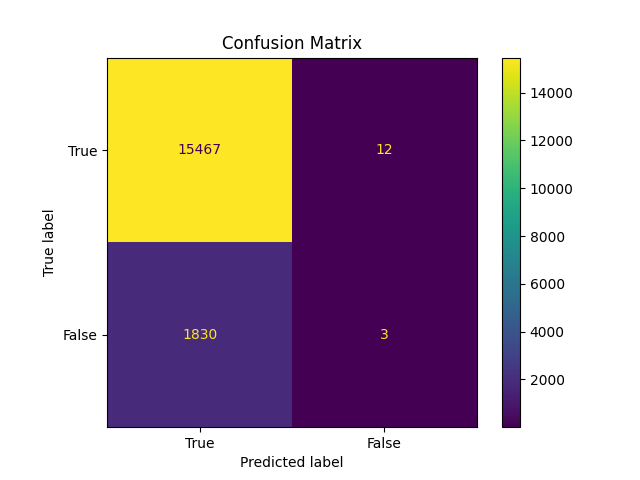
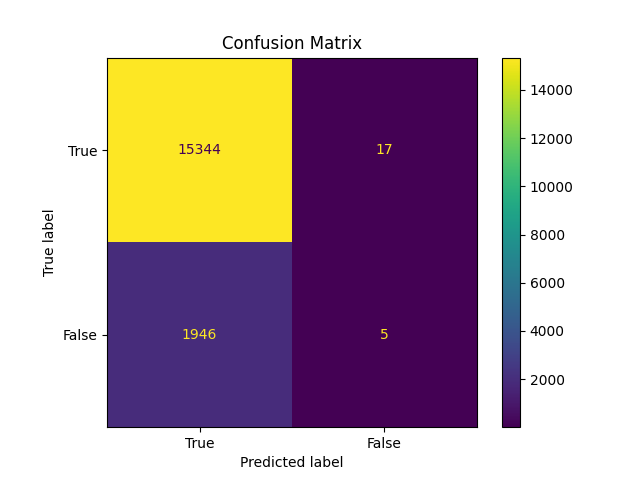
mmulticlass classification added

diff --git a/Enhanced-ANN-GSGD/tester.py b/Enhanced-ANN-GSGD/tester.py
@@ -1,0 +1,158 @@
+from numpy import vstack
+from numpy import argmax
+from pandas import read_csv
+from sklearn.preprocessing import LabelEncoder
+from sklearn.metrics import accuracy_score
+from torch import Tensor
+import torch as torch
+from torch.utils.data import Dataset
+from torch.utils.data import DataLoader
+from torch.utils.data import random_split
+from torch.nn import Linear
+from torch.nn import ReLU
+from torch.nn import Softmax
+from torch.nn import Module
+from torch.optim import SGD
+from torch.nn import CrossEntropyLoss
+from torch.nn.init import kaiming_uniform_
+from torch.nn.init import xavier_uniform_
+ 
+# dataset definition
+class CSVDataset(Dataset):
+    # load the dataset
+    def __init__(self, path):
+        # load the csv file as a dataframe
+        df = read_csv(path, header=None)
+        # store the inputs and outputs
+        self.X = df.values[:, :-1]
+        self.y = df.values[:, -1]
+        # ensure input data is floats
+        self.X = self.X.astype('float32')
+        # label encode target and ensure the values are floats
+        self.y = LabelEncoder().fit_transform(self.y)
+ 
+    # number of rows in the dataset
+    def __len__(self):
+        return len(self.X)
+ 
+    # get a row at an index
+    def __getitem__(self, idx):
+        return [self.X[idx], self.y[idx]]
+ 
+    # get indexes for train and test rows
+    def get_splits(self, n_test=0.33):
+        # determine sizes
+        test_size = round(n_test * len(self.X))
+        train_size = len(self.X) - test_size
+        # calculate the split
+        return random_split(self, [train_size, test_size])
+ 
+# model definition
+class MLP(Module):
+    # define model elements
+    def __init__(self, n_inputs):
+        super(MLP, self).__init__()
+        # input to first hidden layer
+        self.hidden1 = Linear(n_inputs, 10)
+        kaiming_uniform_(self.hidden1.weight, nonlinearity='relu')
+        self.act1 = ReLU()
+        # second hidden layer
+        self.hidden2 = Linear(10, 8)
+        kaiming_uniform_(self.hidden2.weight, nonlinearity='relu')
+        self.act2 = ReLU()
+        # third hidden layer and output
+        self.hidden3 = Linear(8, 3)
+        xavier_uniform_(self.hidden3.weight)
+        self.act3 = Softmax(dim=1)
+ 
+    # forward propagate input
+    def forward(self, X):
+        # input to first hidden layer
+        X = self.hidden1(X)
+        X = self.act1(X)
+        # second hidden layer
+        X = self.hidden2(X)
+        X = self.act2(X)
+        # output layer
+        X = self.hidden3(X)
+        X = self.act3(X)
+        return X
+ 
+# prepare the dataset
+def prepare_data(path):
+    # load the dataset
+    dataset = CSVDataset(path)
+    # calculate split
+    train, test = dataset.get_splits()
+    # prepare data loaders
+    train_dl = DataLoader(train, batch_size=32, shuffle=True)
+    test_dl = DataLoader(test, batch_size=1024, shuffle=False)
+    return train_dl, test_dl
+ 
+# train the model
+def train_model(train_dl, model):
+    # define the optimization
+    criterion = CrossEntropyLoss()
+    optimizer = SGD(model.parameters(), lr=0.01, momentum=0.9)
+    # enumerate epochs
+    for epoch in range(500):
+        # enumerate mini batches
+        for i, (inputs, targets) in enumerate(train_dl):
+            # clear the gradients
+            optimizer.zero_grad()
+            # compute the model output
+            yhat = model(inputs)
+            # calculate loss
+            loss = criterion(yhat, targets.to(torch.long))
+            # credit assignment
+            loss.backward()
+            # update model weights
+            optimizer.step()
+ 
+# evaluate the model
+def evaluate_model(test_dl, model):
+    predictions, actuals = list(), list()
+    for i, (inputs, targets) in enumerate(test_dl):
+        # evaluate the model on the test set
+        yhat = model(inputs)
+        # retrieve numpy array
+        yhat = yhat.detach().numpy()
+        actual = targets.numpy()
+        # convert to class labels
+        yhat = argmax(yhat, axis=1)
+        # reshape for stacking
+        actual = actual.reshape((len(actual), 1))
+        yhat = yhat.reshape((len(yhat), 1))
+        # store
+        predictions.append(yhat)
+        actuals.append(actual)
+    predictions, actuals = vstack(predictions), vstack(actuals)
+    # calculate accuracy
+    acc = accuracy_score(actuals, predictions)
+    return acc
+ 
+# make a class prediction for one row of data
+def predict(row, model):
+    # convert row to data
+    row = Tensor([row])
+    # make prediction
+    yhat = model(row)
+    # retrieve numpy array
+    yhat = yhat.detach().numpy()
+    return yhat
+ 
+# prepare the data
+path = 'https://raw.githubusercontent.com/jbrownlee/Datasets/master/iris.csv'
+train_dl, test_dl = prepare_data(path)
+print(len(train_dl.dataset), len(test_dl.dataset))
+# define the network
+model = MLP(4)
+# train the model
+train_model(train_dl, model)
+# evaluate the model
+acc = evaluate_model(test_dl, model)
+print('Accuracy: %.3f' % acc)
+# make a single prediction
+row = [5.1,3.5,1.4,0.2]
+yhat = predict(row, model)
+print('Predicted: %s (class=%d)' % (yhat, argmax(yhat)))

diff --git a/Enhanced-ANN-GSGD/main.py b/Enhanced-ANN-GSGD/main.py
@@ -42,8 +42,8 @@ def GSGD_ANN(filePath):
     versetnum = 5 
     epochs = 5
     revisitNum = 15
-    batch_size = 40
-    out_dimension = 1 if NC == 2 else NC
+    batch_size = 3#40
+    out_dimension = NC#1 if NC == 2 else NC
 
     optim_params = l_rate, lamda, betas, beta, epsilon
     optims = ['SGD', 'ADAM', 'ADADELTA', 'RMSPROP', 'ADAGRAD']
@@ -61,8 +61,9 @@ def GSGD_ANN(filePath):
                       nn.Linear(n_hiddenA, n_hiddenB),
                       nn.BatchNorm1d(n_hiddenB),
                       nn.Sigmoid(),
-                      nn.Linear(n_hiddenB, out_dimension),
-                      nn.Sigmoid()).to(device=device)
+                      nn.Linear(n_hiddenB, out_dimension)
+                      #nn.Sigmoid()
+                      ).to(device=device)
     optimizer_GSGD = get_optimizer(network_GSGD, name=optim_name, cache= optim_params)
     network_SGD = copy.deepcopy(network_GSGD)
     optimizer_SGD = get_optimizer(network_SGD, name=optim_name, cache= optim_params)
@@ -80,7 +81,7 @@ def GSGD_ANN(filePath):
     generate_graphs(epochs, results_container)
     
 def evaluate_algorithm(x, y, xts, yts, cache, results_container):
-    loss_function = nn.MSELoss()
+    loss_function = nn.CrossEntropyLoss()#nn.MSELoss()
     StopTrainingFlag = False
     is_guided_approach, rho, versetnum, epochs, revisitNum, N, network, optimizer, T, batch_size, NC = cache
     
@@ -94,14 +95,14 @@ def evaluate_algorithm(x, y, xts, yts, cache, results_container):
     x_batches, y_batches = [], []
     for input,labels in training_loader:
         x_batches.append(input)
-        y_batches.append(labels)
+        y_batches.append(labels.squeeze().to(dtype=torch.int64))
     # end
     x_batches = np.array(x_batches)
     y_batches = np.array(y_batches)
 
     #transform Validation data
     xts = torch.Tensor(xts).to(device)
-    yts = torch.Tensor(yts).to(device=device, dtype=torch.int)
+    yts = torch.Tensor(yts).squeeze().to(device=device, dtype=torch.int64)
 
     #Guided Training starts here
     if is_guided_approach:
@@ -221,8 +222,9 @@ def evaluate_algorithm(x, y, xts, yts, cache, results_container):
                 #If an interrupt request has been made, break out of the epoch loop
                 if StopTrainingFlag or is_done: 
                     break
-        
+            
             SR, E = validate(xts, network, yts, loss_function)
+
             print('Epoch : %s' % str(epoch+1))
             print('Accuracy: %s' % SR.item())
             print('Error Rate: %s' % E)

diff --git a/Enhanced-ANN-GSGD/tester2.py b/Enhanced-ANN-GSGD/tester2.py
@@ -1,0 +1,83 @@
+import os
+import torch
+from torch import nn
+from torchvision.datasets import CIFAR10
+from torch.utils.data import DataLoader
+from torchvision import transforms
+
+class MLP(nn.Module):
+  '''
+    Multilayer Perceptron.
+  '''
+  def __init__(self):
+    super().__init__()
+    self.layers = nn.Sequential(
+      nn.Flatten(),
+      nn.Linear(32 * 32 * 3, 64),
+      nn.ReLU(),
+      nn.Linear(64, 32),
+      nn.ReLU(),
+      nn.Linear(32, 10)
+    )
+
+
+  def forward(self, x):
+    '''Forward pass'''
+    return self.layers(x)
+  
+  
+if __name__ == '__main__':
+  
+  # Set fixed random number seed
+  torch.manual_seed(42)
+  
+  # Prepare CIFAR-10 dataset
+  dataset = CIFAR10(os.getcwd(), download=True, transform=transforms.ToTensor())
+  trainloader = torch.utils.data.DataLoader(dataset, batch_size=10, shuffle=True, num_workers=1)
+  
+  # Initialize the MLP
+  mlp = MLP()
+  
+  # Define the loss function and optimizer
+  loss_function = nn.CrossEntropyLoss()
+  optimizer = torch.optim.Adam(mlp.parameters(), lr=1e-4)
+  
+  # Run the training loop
+  for epoch in range(0, 5): # 5 epochs at maximum
+    
+    # Print epoch
+    print(f'Starting epoch {epoch+1}')
+    
+    # Set current loss value
+    current_loss = 0.0
+    
+    # Iterate over the DataLoader for training data
+    for i, data in enumerate(trainloader, 0):
+      
+      # Get inputs
+      inputs, targets = data
+      
+      # Zero the gradients
+      optimizer.zero_grad()
+      
+      # Perform forward pass
+      outputs = mlp(inputs)
+      
+      # Compute loss
+      loss = loss_function(outputs, targets)
+      
+      # Perform backward pass
+      loss.backward()
+      
+      # Perform optimization
+      optimizer.step()
+      
+      # Print statistics
+      current_loss += loss.item()
+      if i % 500 == 499:
+          print('Loss after mini-batch %5d: %.3f' %
+                (i + 1, current_loss / 500))
+          current_loss = 0.0
+
+  # Process is complete.
+  print('Training process has finished.')

diff --git a/Enhanced-ANN-GSGD/printFinalResults.py b/Enhanced-ANN-GSGD/printFinalResults.py
@@ -14,8 +14,8 @@ def print_results_final(inputVal, network, actual, loss_function, class_num, typ
     loss = loss_function(predicted, actual)
     overall_E = loss.item()
     specifity = torchmetrics.functional.specificity(preds=predicted, target=actual)
-    fpr, tpr, thresholds =  torchmetrics.functional.roc(preds=predicted, target=actual)
-    precision_plot, recall_plot, thresholds_prc =  torchmetrics.functional.precision_recall_curve(preds=predicted, target=actual)
+    fpr, tpr, thresholds =  torchmetrics.functional.roc(preds=predicted, target=actual, num_classes=class_num)
+    precision_plot, recall_plot, thresholds_prc =  torchmetrics.functional.precision_recall_curve(preds=predicted, target=actual, num_classes=class_num)
     conf_matrix = torchmetrics.functional.confusion_matrix(preds=predicted, target=actual, num_classes= class_num)
 
     print('\n\n--Results------'+ type)
@@ -26,7 +26,7 @@ def print_results_final(inputVal, network, actual, loss_function, class_num, typ
     #ROC Curve
     plt.figure()
     plt.plot([0.0, 1.0], [0.0, 1.0], linestyle='--')
-    plt.plot(fpr.cpu().data.numpy(), tpr.cpu().data.numpy(),'g--', label='ROC', marker='.', markersize='0.02')
+    plt.plot(fpr[0].cpu().data.numpy(), tpr[0].cpu().data.numpy(),'g--', label='ROC', marker='.', markersize='0.02')
     plt.title('ROC Curve')
     plt.ylabel('True Positive Rate')
     plt.xlabel('False Positive Rate')
@@ -36,7 +36,7 @@ def print_results_final(inputVal, network, actual, loss_function, class_num, typ
     no_skill = len(actual[actual==1]) / len(actual)
     plt.figure()
     plt.plot([0.0, 1.0], [no_skill,no_skill], linestyle='--')
-    plt.plot(recall_plot.cpu().data.numpy(), precision_plot.cpu().data.numpy(),'g--', label='Precision-Recall Curve', marker='.', markersize='0.02')
+    plt.plot(recall_plot[1].cpu().data.numpy(), precision_plot[1].cpu().data.numpy(),'g--', label='Precision-Recall Curve', marker='.', markersize='0.02')
     plt.title('Precision Recall Curve')
     plt.ylabel('Precision')
     plt.xlabel('Recall')

diff --git a/Enhanced-ANN-GSGD/readData.py b/Enhanced-ANN-GSGD/readData.py
@@ -20,7 +20,7 @@ def readData(file_path):
     apply_smote_oversampling = True
     
     if apply_smote_oversampling:   
-        oversample = SMOTE(random_state=42, k_neighbors = 1000)
+        oversample = SMOTE(random_state=42)
         x, y = oversample.fit_resample(X_train_old, Y_train_old)
     else:
         x = X_train_old

diff --git a/Enhanced-ANN-GSGD/getError.py b/Enhanced-ANN-GSGD/getError.py
@@ -9,5 +9,5 @@ def getErrorMSE(idx, x, y, network, loss_function):
     data_y = y[idx]
     network.zero_grad()
     pred_y = network(data_x.to(device = this_device))
-    loss = loss_function(pred_y, data_y.to(device = this_device))
+    loss = loss_function(pred_y, data_y)
     return loss.item()
